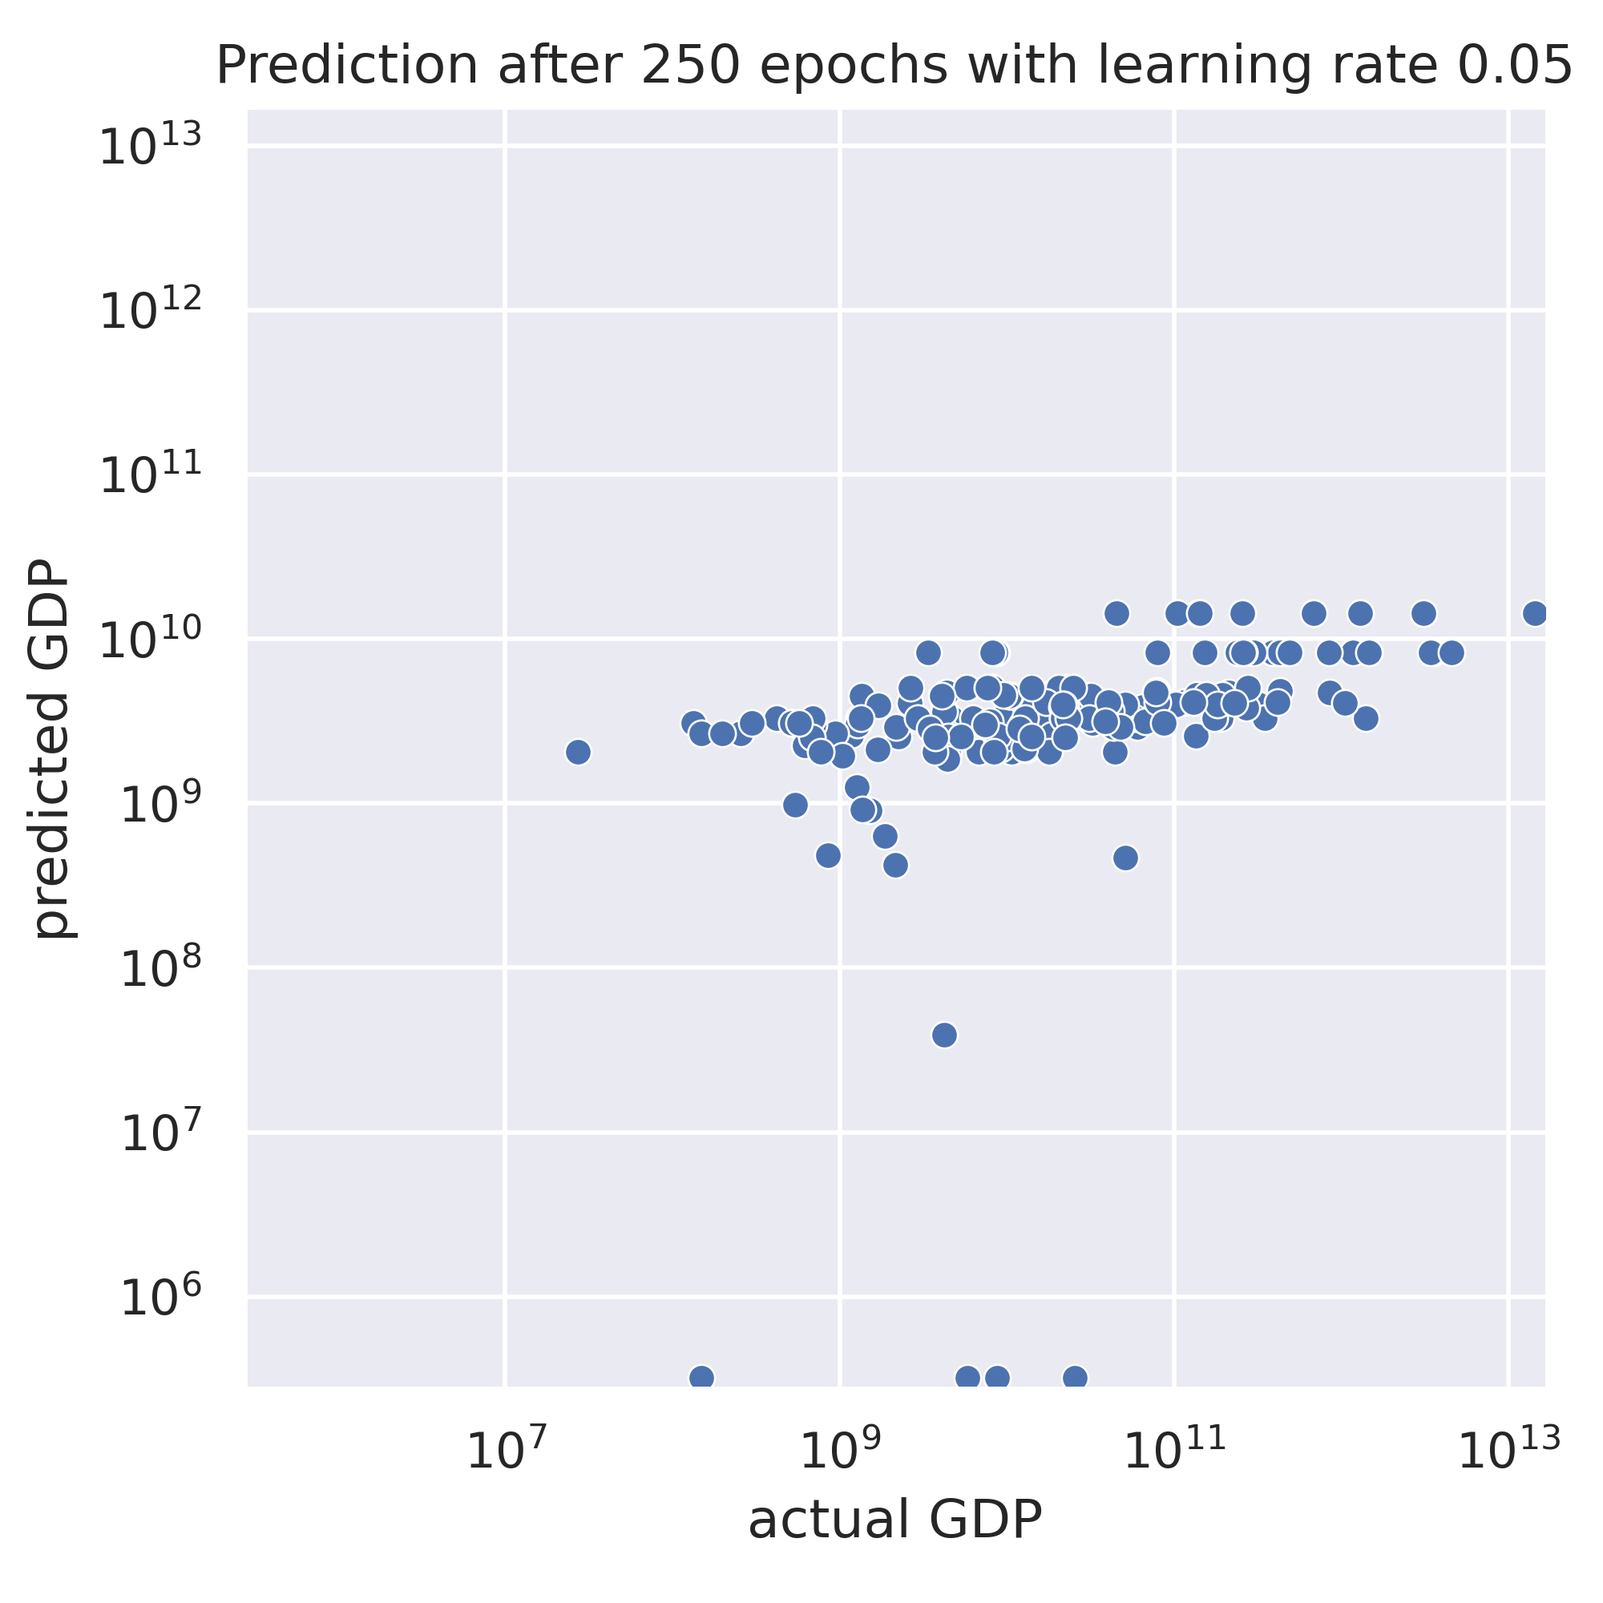
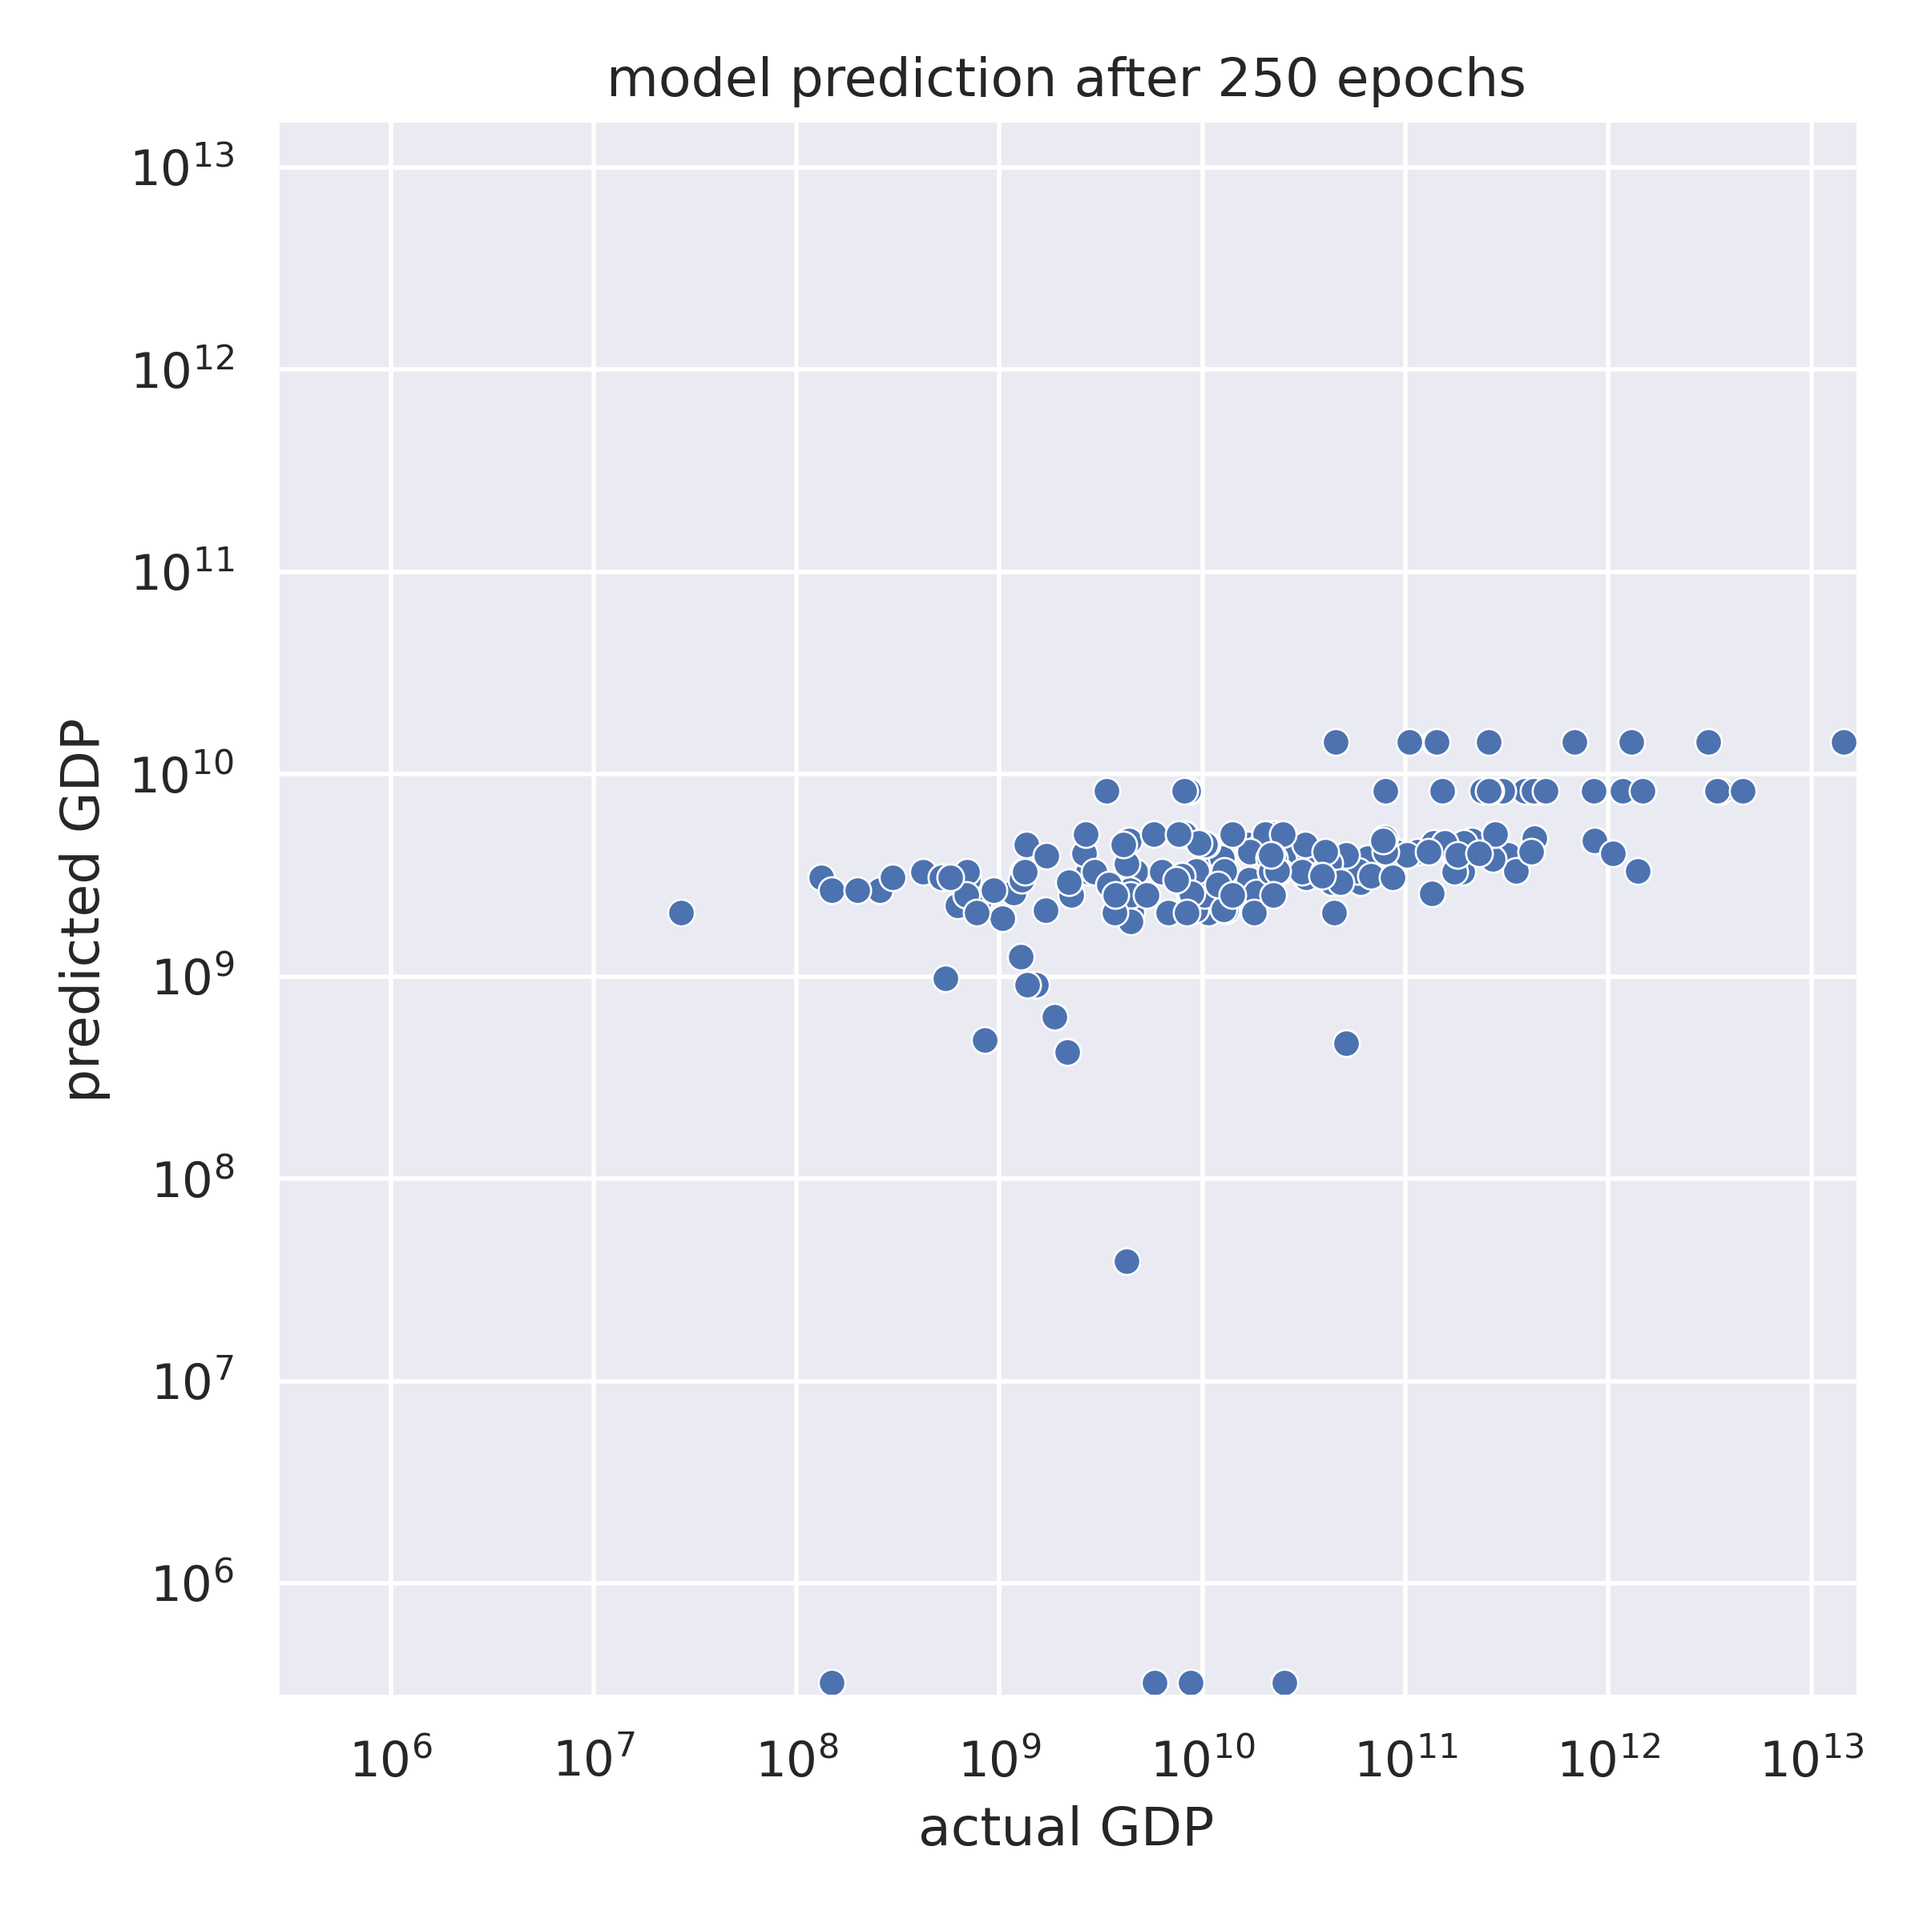
fix padding around plot

diff --git a/plot.py b/plot.py
@@ -18,11 +18,12 @@ def pred_plot(input_csv, title, out_file, bounding_scaling_factor=.15):
     min_val = preds_df[['ground_truth','prediction']].min().values.min() * (1 - bounding_scaling_factor)
     max_val = preds_df[['ground_truth', 'prediction']].max().values.max() * (1 + bounding_scaling_factor)
     lim = (min_val, max_val)
-    preds_plot = sns.relplot(data=preds_df, x='ground_truth', y='prediction')
+    preds_plot = sns.relplot(data=preds_df, x='ground_truth', y='prediction', height=6, aspect=1)
     preds_plot.set(xscale='log', yscale='log') # large spread in values
     preds_plot.set(xlabel='actual GDP', ylabel='predicted GDP') # label axes
     preds_plot.set(xlim=lim, ylim=lim) # limits must be same to match intution that y=x is correct
     preds_plot.set(title=title)
+    plt.tight_layout()
     preds_plot.fig.savefig(out_file, dpi=400)
     plt.close(plt.gcf())
 
@@ -40,6 +41,6 @@ for lr in get_sweep_range():
     #hyperparams_plot(model_type)
         #loss_plot(f"{model_type}_{lr}_10000")
         for e in [0, 250]:
-            pred_plot(f"results/{model_type}_{lr}_{e}_out_of_500_prediction.csv", f"Prediction after {e} epochs with learning rate {lr}", f"plots/{model_type}_{lr}_{e}.png")
-        pred_plot(f"results/{model_type}_{lr}_prediction.csv", f"{model_type} prediction after 500 epochs with learning rate {lr}", f"plots/{model_type}_{lr}.png")
+            pred_plot(f"results/{model_type}_{lr}_{e}_out_of_500_prediction.csv", f"{model_type} prediction after {e} epochs", f"plots/{model_type}_{lr}_{e}.png")
+        pred_plot(f"results/{model_type}_{lr}_prediction.csv", f"{model_type} prediction after 500 epochs", f"plots/{model_type}_{lr}.png")
 
